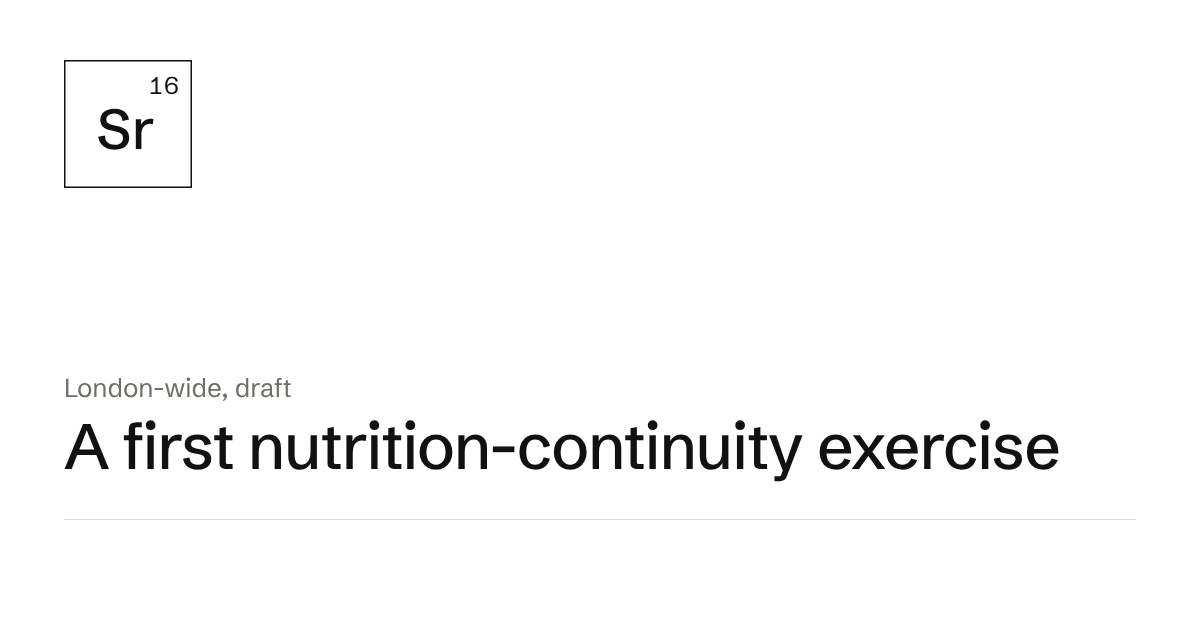
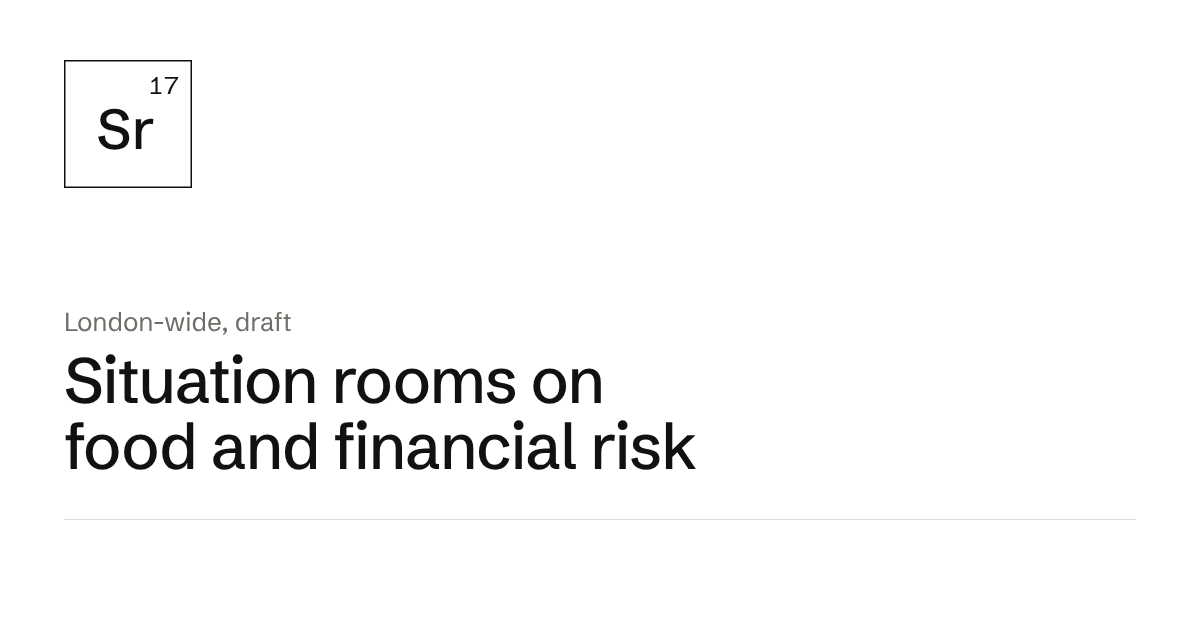
Rework the nutrition-continuity draft after the partners' conversation
Reframe around why finance is the entry point, define the first room's
starting point and destination, add the institutional shortlist with the
challenge to seat people who hold the balance sheet, and set out the
steering board, coordinators and operational lead. Named contacts stay off
the public page.

Claude-Session: https://claude.ai/code/session_014WTqevqxk3icJvFawm6Zpe

Changed region(s): [[0.0308, 0.4825, 0.8942, 0.754], [0.1233, 0.1206, 0.1542, 0.1508]]

diff --git a/nutrition-continuity-exercise.html b/nutrition-continuity-exercise.html
@@ -4,7 +4,7 @@
 <meta charset="UTF-8">
 <meta name="viewport" content="width=device-width, initial-scale=1.0">
 <meta name="robots" content="noindex, nofollow">
-<title>A first nutrition-continuity exercise (draft) — Food as Infrastructure</title>
+<title>Situation rooms on food and financial risk (draft) — Food as Infrastructure</title>
 <style>
   /* A document on paper. Tokens come from assets/fai/fai.css (loaded after this block). */
   *{box-sizing:border-box;}
@@ -71,24 +71,24 @@
   }
 </style>
 <!-- fai:head -->
-<meta name="description" content="A discussion draft: a facilitated exercise in early 2027 tracing how a food shock spreads into inflation, insurance losses and public finances.">
+<meta name="description" content="A discussion draft: small, director-level situation rooms tracing how a near-term food shock lands on financial balance sheets.">
 <link rel="canonical" href="https://food.darkmatterlabs.org/nutrition-continuity-exercise.html">
 <meta name="theme-color" content="#111112">
 <meta property="og:type" content="article">
 <meta property="og:site_name" content="Food as Infrastructure, Dark Matter Labs">
 <meta property="og:locale" content="en_GB">
 <meta property="og:url" content="https://food.darkmatterlabs.org/nutrition-continuity-exercise.html">
-<meta property="og:title" content="A first nutrition-continuity exercise">
-<meta property="og:description" content="A discussion draft: a facilitated exercise in early 2027 tracing how a food shock spreads into inflation, insurance losses and public finances.">
+<meta property="og:title" content="Situation rooms on food and financial risk">
+<meta property="og:description" content="A discussion draft: small, director-level situation rooms tracing how a near-term food shock lands on financial balance sheets.">
 <meta property="og:image" content="https://food.darkmatterlabs.org/assets/fai/social/nutrition-continuity-exercise.png">
 <meta property="og:image:width" content="1200">
 <meta property="og:image:height" content="630">
-<meta property="og:image:alt" content="A first nutrition-continuity exercise. Food as Infrastructure, Dark Matter Labs.">
+<meta property="og:image:alt" content="Situation rooms on food and financial risk. Food as Infrastructure, Dark Matter Labs.">
 <meta name="twitter:card" content="summary_large_image">
-<meta name="twitter:title" content="A first nutrition-continuity exercise">
-<meta name="twitter:description" content="A discussion draft: a facilitated exercise in early 2027 tracing how a food shock spreads into inflation, insurance losses and public finances.">
+<meta name="twitter:title" content="Situation rooms on food and financial risk">
+<meta name="twitter:description" content="A discussion draft: small, director-level situation rooms tracing how a near-term food shock lands on financial balance sheets.">
 <meta name="twitter:image" content="https://food.darkmatterlabs.org/assets/fai/social/nutrition-continuity-exercise.png">
-<meta name="twitter:image:alt" content="A first nutrition-continuity exercise. Food as Infrastructure, Dark Matter Labs.">
+<meta name="twitter:image:alt" content="Situation rooms on food and financial risk. Food as Infrastructure, Dark Matter Labs.">
 <link rel="icon" href="assets/fai/favicon.svg" type="image/svg+xml">
 <link rel="preconnect" href="https://fonts.googleapis.com">
 <link rel="preconnect" href="https://fonts.gstatic.com" crossorigin>
@@ -103,7 +103,7 @@
     <a class="fai-bar__dm" href="https://darkmatterlabs.org/"><img class="fai-bar__lockup" src="assets/brand/dm-logo-v1-white.svg" alt="Dark Matter Labs" width="102" height="20"><img class="fai-bar__stamp" src="assets/brand/dm-stamp-white.svg" alt="Dark Matter Labs" width="20" height="20"></a>
     <span class="fai-bar__sep" aria-hidden="true"></span>
     <a class="fai-bar__mission" href="index.html">Food as Infrastructure</a>
-    <span class="fai-bar__here"><span class="fai-el fai-el--draft" aria-hidden="true"><b>Sr</b><i>16</i></span><span>Nutrition Continuity Exercise</span></span>
+    <span class="fai-bar__here"><span class="fai-el fai-el--draft" aria-hidden="true"><b>Sr</b><i>17</i></span><span>Situation Rooms</span></span>
     <a class="fai-bar__xco" href="https://optionality.darkmatterlabs.org/" target="_blank" rel="noopener" title="Dark Matter Labs' Expanding Civilizational Optionality portfolio">xCO portfolio<span aria-hidden="true"> ↗</span></a>
     <div class="fai-bar__links" role="navigation" aria-label="Site"><a href="index.html">Portfolio</a><a href="library.html">Library</a></div>
   </div>
@@ -113,140 +113,157 @@
 <div class="wrap">
 
 <div class="status" role="note">
-  <b>Draft for discussion.</b>
-  Shared by direct link only, with Indy, Sandrine, Kirsten and the wider team. Figures for cost and time are indicative ranges, not supplier quotes.
+  <b>Second draft for discussion.</b>
+  Shared by direct link with the Systems Transformation Hub partners and Dark Matter Labs. Cost and time figures are indicative ranges, not quotes. Named contacts are kept in a separate list between the partners, not on this page.
 </div>
 
 <header class="doc">
-  <p class="kicker">Discussion document, nutrition continuity and financial stability</p>
-  <h1>A first exercise on how a food shock becomes a financial one</h1>
-  <p class="lede">We propose to run a facilitated exercise, in the first quarter of 2027, that puts financial institutions and food-system actors in one room with a single disruption scenario. They trace how it spreads into prices, insurance losses and public finances, find where today’s responses fall short, and leave with actions they own.</p>
-  <p class="meta">Drafted by Milan and Adam, 7 October 2026. For a funding decision at the Collaborative’s Berlin meeting in early December.</p>
+  <p class="kicker">Discussion document, systemic risk and financial stability</p>
+  <h1>Situation rooms on how a food shock lands on a balance sheet</h1>
+  <p class="lede">Senior people in finance and policy already accept that climate and nature risk is systemic. That knowledge has not yet changed where capital goes. We propose a short series of small, director-level situation rooms, starting in early 2027. Each takes one near-term food-system disruption and traces it to the exposures the people in the room are responsible for.</p>
+  <p class="meta">Second draft by Milan and Adam, 15 October 2026, updated after our latest conversation.</p>
 </header>
 
 <div class="ask">
-  <p><b>What we are asking for.</b> Agreement on the scenario and format below, introductions into the financial sector, and a funding proposal for Berlin: either a six-month pilot or seed funding for a small delivery capability. Either should pay for a first exercise and a second, improved one.</p>
+  <p><b>What we are asking the partners for.</b> A thumbs up on the structure, framing and first-room design below. Names to add to the shortlist, especially people who hold a balance sheet rather than a sustainability brief. And a nominee for the operational lead, if you have one.</p>
 </div>
 
-<section class="topic" id="topic">
-  <h2>Topic and use case</h2>
-  <p>When food, water, energy and logistics come under pressure together, the question is whether people can keep eating well. If they can’t, the pressure doesn’t stay in the food system. It moves into sticky inflation that a central bank can’t treat, into claims and withdrawn cover for insurers, into weaker household and corporate balance sheets, and finally into public finances. Our <a href="nutrition-cascade-model.html">Nutrition Cascade</a> maps these pathways. It is qualitative, with illustrative weights and timings, and is a starting point for the exercise, not a forecast.</p>
+<section class="topic" id="why-finance">
+  <h2>Why the financial system is the entry point</h2>
+  <p>Food is where climate, water, energy and trade risk turns concrete fastest. A thin harvest or a blocked chokepoint shows up within months as food inflation that interest rates can’t fix, as claims and withdrawn cover for insurers, as stressed agricultural loan books, as repricing in portfolios exposed to food and commodities, and as calls on public money. These are not 2050 scenarios. The Systems Transformation Hub’s risk outlook for September 2026 to March 2027 describes disruptions that could arrive inside one reporting cycle.</p>
+  <p>Finance is the right way in because the losses land there, and because the people who hold those balance sheets can move capital in ways no food-system actor can on their own.</p>
+  <div class="table-wrap">
+  <table>
+    <thead><tr><th scope="col">Who</th><th scope="col">Where a food shock lands</th><th scope="col">What they can change</th></tr></thead>
+    <tbody>
+      <tr><th scope="row">Central banks and supervisors</th><td>Food inflation that rate rises don’t treat. Concentrated exposure in the banks and insurers they supervise.</td><td>Stress-test design, supervisory expectations, how they read food inflation</td></tr>
+      <tr><th scope="row">Public and development banks</th><td>Agricultural and infrastructure loan books, guarantees</td><td>Lending criteria, blended-finance terms, what they fund next</td></tr>
+      <tr><th scope="row">Insurers and reinsurers</th><td>Crop, cargo, business-interruption and supply-chain claims</td><td>Underwriting appetite, pricing, parametric cover</td></tr>
+      <tr><th scope="row">Banks lending to farming and food</th><td>Credit quality of farms, processors and food businesses</td><td>Credit terms, transition finance</td></tr>
+      <tr><th scope="row">Asset owners and managers</th><td>Food, commodity and consumer holdings. Bonds of import-dependent states.</td><td>Allocation, stewardship and engagement asks</td></tr>
+      <tr><th scope="row">EU policymakers</th><td>The fiscal cost of emergency support. Food security and preparedness.</td><td>Prudential and disclosure rules, preparedness funding</td></tr>
+    </tbody>
+  </table>
+  </div>
+  <p class="caption">Our <a href="nutrition-cascade-model.html">Nutrition Cascade</a> maps these pathways. It is qualitative, with illustrative weights and timings, and is a starting point for the scenario rather than a forecast.</p>
+</section>
 
-  <h3>A candidate shock sequence</h3>
-  <p>The sequence is still to be chosen. As a starting point, we suggest one drawn from the near-term outlook for September 2026 to March 2027 and three cascades already in the model:</p>
+<section class="topic" id="first-room">
+  <h2>The first room: where it starts and where it should end</h2>
+  <p><b>Starting point.</b> Participants already know the risk is systemic. What they lack is a concrete line from a near-term shock to their own book, and the words to make that case to their boards, supervisors and investors.</p>
+  <p><b>Destination.</b> Each participant leaves with:</p>
+  <ul>
+    <li>one decision within their own remit that they will test in the next six months, such as a stress-test assumption, an underwriting rule, a lending criterion or a stewardship ask</li>
+    <li>a short, plain account they can use with colleagues, regulators and investors of why not shifting capital lands losses on their own balance sheet</li>
+    <li>named follow-ups with others in the room.</li>
+  </ul>
+
+  <h3>No one outside the room holds the action</h3>
+  <p>Rooms like this often fail when participants can point to an absent actor as the one with real power: “that’s for the ECB”, “the regulator would have to move first”. We design against that in two ways. We put the people with the remit in the room, and when the conversation drifts to someone absent, the facilitator brings it back to what the people present can do themselves.</p>
+
+  <h3>A candidate scenario</h3>
+  <p>Still to be chosen with the partners. As a starting point, one drawn from the near-term outlook and three cascades already in our model:</p>
   <ol>
     <li>A winter energy squeeze, with a chokepoint such as the Strait of Hormuz repricing LNG, fertiliser and freight insurance.</li>
     <li>Farmers cut nitrogen use ahead of spring planting, while a strong El Niño stresses several breadbaskets in the same season.</li>
-    <li>Import-dependent food prices rise months later, households trade protein for cheap calories, and food inflation stays high after energy prices ease.</li>
+    <li>Import-dependent food prices rise months later and food inflation stays high after energy prices ease.</li>
   </ol>
 
-  <h3>Decisions participants would make</h3>
+  <h3>How the room is designed</h3>
   <ul>
-    <li>A central bank deciding whether to look through food inflation or tighten, knowing tightening falls hardest on the households already cutting protein.</li>
-    <li>Insurers and reinsurers deciding whether to reprice, exclude or keep covering crop, cargo and supply-chain risk.</li>
-    <li>Governments choosing between price support, reserve releases, export controls and protecting public food provision such as school meals.</li>
-    <li>Large food buyers, including public procurers, deciding whether to hold prices through forward contracts.</li>
+    <li><b>Small and senior.</b> Eight to ten people at director level with executive power. How senior is a design choice: the top, one level below or two, depending on who holds the remit to act.</li>
+    <li><b>A host that lends weight.</b> Ideally the European Central Bank or the European Investment Bank, at their offices. Neither has been asked yet.</li>
+    <li><b>A conversation with everyone first.</b> A one-to-one interview with every participant beforehand, to understand their exposure, what they could change and how they are likely to react. The design of the day builds on what we hear.</li>
+    <li><b>Rehearsed.</b> The team runs the session in full beforehand, playing the participants.</li>
+    <li><b>In finance language.</b> Plain terms, near-term horizons, no debates about terminology.</li>
+    <li><b>Fixed slots for senior voices.</b> Steering-board members and other senior contributors speak in set places on the agenda, each with a specific ask.</li>
+    <li><b>Repeatable.</b> Later rooms reuse the format with a different shock or a different part of the financial system.</li>
   </ul>
-
-  <h3>What the exercise should produce</h3>
-  <p>A shared map of the transmission pathways the group recognises, a list of gaps where no one currently acts, and a short set of interventions with a named institution willing to take each forward. The scenario, roles and debrief method should be reusable, so the second exercise costs less than the first.</p>
 </section>
 
-<section class="topic" id="audience">
-  <h2>Audience</h2>
-  <p>The financial sector is the way in. The capital team will test interest and ask what would make participation worth a senior person’s day. Candidates to test, none of them approached yet:</p>
-  <ul>
-    <li>Insurers and reinsurers with agricultural, cargo or food-supply exposure, and Lloyd’s market participants.</li>
-    <li>Central banks and financial-stability bodies, including the networks that already work on climate risk, such as the NGFS.</li>
-    <li>Development and public banks financing food and agricultural infrastructure.</li>
-  </ul>
-  <p>Around them sit the actors needed to make the scenario real: national food and agriculture ministries, a city or borough food partnership (the London work gives us Camden, Islington and Hackney), large retailers and public procurers, and logistics operators. Fifteen to forty people in total. Each should come with a decision they actually hold, not just a view.</p>
-</section>
-
-<section class="topic" id="format">
-  <h2>Format and delivery</h2>
-  <p>We suggest a structured tabletop: a facilitated half-day to two-day session that moves through the scenario at fixed decision points. It needs six to twelve weeks of preparation and is the cheapest serious format that still leaves participants with commitments. A short executive game could open it for senior financial participants. The other formats we reviewed are in the <a href="#annex">annex</a>.</p>
-  <p>We would not build this ourselves. We will scope it with an experienced partner and check what existing tools can be adapted: the Food Alert simulation partners, who are waiting on this document; ASRA’s STEER systemic-risk tool; and the Social Simulations portfolio, including the Mobility Transition exercise we worked on with them.</p>
-
-  <h3>Keeping it moving without a bottleneck</h3>
-  <p>A credible exercise needs senior input, but it shouldn’t wait on any one person’s diary. So we propose that decision rights sit with the people doing the work.</p>
+<section class="topic" id="participants">
+  <h2>Who should be in the room</h2>
+  <p>Our first shortlist leans on sustainability and climate leads. They are our natural allies and often the way in, but they rarely hold the balance sheet. For each institution we should aim for the person whose decisions would change under this scenario: a chief risk officer, a chief underwriting officer, a head of agricultural lending, a chief investment officer or a financial-stability director. The sustainability lead can open the door, and the seat should go to whoever holds the remit.</p>
   <div class="table-wrap">
   <table>
-    <thead><tr><th scope="col">Who</th><th scope="col">Decides</th><th scope="col">Contributes</th></tr></thead>
+    <thead><tr><th scope="col">Group</th><th scope="col">On the shortlist</th><th scope="col">Worth adding</th></tr></thead>
     <tbody>
-      <tr><th scope="row">Operational lead</th><td>Schedule, participants, budget within the agreed envelope, what goes in the room</td><td>Day-to-day running, follow-through after the exercise</td></tr>
-      <tr><th scope="row">Delivery partner</th><td>Exercise design, facilitation method</td><td>Scenario build, facilitation, debrief</td></tr>
-      <tr><th scope="row">Senior advisers (Indy, Sandrine, Kirsten)</th><td>Nothing on the critical path</td><td>Comments at three set points, introductions, a role in the room if they choose</td></tr>
-      <tr><th scope="row">The Collaborative</th><td>Funding, once, in Berlin</td><td>Review at the end of the pilot</td></tr>
-      <tr><th scope="row">Participants</th><td>The actions they take away</td><td>Their decisions, data and judgement</td></tr>
+      <tr><th scope="row">Central banking and public finance</th><td>European Central Bank, European Investment Bank</td><td>ECB financial stability and macroprudential policy, the European Systemic Risk Board, the NGFS, EIOPA financial stability</td></tr>
+      <tr><th scope="row">Banks, insurers and reinsurers</th><td>Rabobank, Howden, Munich Re, Swiss Re, a life-insurance chair reached through Climate-KIC</td><td>Allianz, AXA, Zurich, the Lloyd’s market. Heads of agricultural lending at large European banks.</td></tr>
+      <tr><th scope="row">Investors</th><td>IIGCC (two or three members), PGGM, APG</td><td>The Planetary Solvency initiative. Large asset owners with food and commodity exposure.</td></tr>
+      <tr><th scope="row">EU policymakers and regulators</th><td>DG FISMA, DG AGRI, DG CLIMA, DG ECHO (contact still to identify)</td><td>The team behind the EU’s food security crisis preparedness mechanism, and the Joint Research Centre</td></tr>
+      <tr><th scope="row">The physical market</th><td>None yet</td><td>The risk or treasury lead of a major agricultural commodity trader, so the room sees how a shock moves through physical supply</td></tr>
+      <tr><th scope="row">Connections</th><td>An independent financial-regulation adviser in the Club of Rome network, as a route to banks and investment managers</td><td>Partners’ own routes in</td></tr>
     </tbody>
   </table>
   </div>
-  <p class="caption">The three review points are the scenario draft, the participant list and the debrief. Each has a five-working-day window. If no comment comes, the work goes ahead.</p>
-  <p style="margin-top:16px">Introductions to financial institutions run through several people at once: the capital team, the delivery partner and the advisers. Drafts, the scenario and results live in one shared place, so anyone on the team can pick up the work. The plan should still run if any one of us is unavailable for a month.</p>
+  <p class="caption">This is an open invitation to every partner to add who is missing. The aim is a small room with real decision-making power, not broad representation.</p>
+</section>
 
-  <h3>Timetable</h3>
+<section class="topic" id="team">
+  <h2>Team and governance</h2>
+  <p>For now this is a collaboration between the Systems Transformation Hub, with all five of its partner organisations, and Dark Matter Labs. Whether others join is still to be decided. We want to draw the best people from across the partners, not split the work by organisation.</p>
   <div class="table-wrap">
   <table>
-    <thead><tr><th scope="col">When</th><th scope="col">What</th></tr></thead>
+    <thead><tr><th scope="col">Role</th><th scope="col">Who</th><th scope="col">What it does</th></tr></thead>
     <tbody>
-      <tr><td>October 2026</td><td>Circulate this draft. Capital team soundings. First calls with Food Alert partners and ASRA.</td></tr>
-      <tr><td>November 2026</td><td>Choose the shock sequence and decisions. Partner scope and quote. Institutional shortlist.</td></tr>
-      <tr><td>Early December 2026</td><td>Funding decision at the Collaborative’s Berlin meeting.</td></tr>
-      <tr><td>December 2026 to February 2027</td><td>Recruit an operational lead. Design the exercise and invite participants.</td></tr>
-      <tr><td>March 2027</td><td>First exercise, five months from now.</td></tr>
-      <tr><td>April to June 2027</td><td>Publish the debrief. Run a second, revised exercise, ideally co-funded by a participating institution.</td></tr>
+      <tr><th scope="row">Steering board</th><td>Senior leads from the five partner organisations, including Indy and Sandrine</td><td>Sets direction, opens doors to participants and funders, takes a slot in the room</td></tr>
+      <tr><th scope="row">Coordinators</th><td>Milan and Adam</td><td>In the background: keep the work on track and make the collaboration work</td></tr>
+      <tr><th scope="row">Operational lead</th><td>One or two people, to be confirmed. Three candidates across DML, xCO and an external contact. Metabolic is a likely source.</td><td>Runs the programme day to day: interviews, logistics, budget within the agreed envelope, follow-through. The most important appointment.</td></tr>
+      <tr><th scope="row">Expertise</th><td>Drawn from across the partners as each room needs it</td><td>Scenario, finance, policy and food-system knowledge</td></tr>
+      <tr><th scope="row">Specialist designers</th><td>Optional, for example the Food Alert team</td><td>Situation-room design and facilitation. A partner we could fundraise with, not part of the core team.</td></tr>
     </tbody>
   </table>
   </div>
+  <h3>Keeping it moving</h3>
+  <p>The steering board gives direction at three set points: the scenario and shortlist, the final design before the first room, and the debrief. Each review has a five-working-day window. Between those points, the operational lead decides within the agreed scope and budget, so the work never waits on one person’s diary.</p>
+  <p>Resourcing stays simple. Each partner receives a baseline, plus resource for the time its people actually spend.</p>
 </section>
 
 <section class="topic" id="funding">
-  <h2>Funding for Berlin</h2>
-  <p>The longer-term aim is for financial institutions to pay for this work. Until then, we see two ways to start. Both are our working assumptions and will change once a partner quotes.</p>
-  <div class="two">
-    <div class="card">
-      <h3>A six-month pilot</h3>
-      <p class="fig tnum">€115–200k</p>
-      <ul>
-        <li>Partner design and facilitation of the first exercise, €40–80k</li>
-        <li>A second exercise reusing the format, €20–40k</li>
-        <li>Operational lead for six months, €45–60k</li>
-        <li>Venue, travel and write-up, €10–20k</li>
-      </ul>
-      <p style="margin-top:12px">Clear scope and end date. Stops after six months unless someone else pays.</p>
-    </div>
-    <div class="card">
-      <h3>Seed for a delivery capability</h3>
-      <p class="fig tnum">€150–250k over 12 months</p>
-      <ul>
-        <li>Operational lead and a part-time analyst</li>
-        <li>A retainer with the delivery partner</li>
-        <li>The first exercise funded in full, the second co-funded by an institution</li>
-      </ul>
-      <p style="margin-top:12px">Keeps a team in place long enough to win paying clients. Asks more of the Collaborative up front.</p>
-    </div>
+  <h2>Funding</h2>
+  <p>We will raise money for the programme from public banks, private banks and philanthropies. Some institutions may prefer to contribute by hosting a room. The longer-term aim is for financial institutions to pay for rooms that serve them. The first ask goes to the Collaborative’s Berlin meeting in early December.</p>
+  <div class="card" style="margin-top:16px">
+    <h3>First phase: six months, two rooms</h3>
+    <p class="fig tnum">€150–250k</p>
+    <ul>
+      <li>Operational lead, one to one and a half people for six months, €60–90k</li>
+      <li>Pre-interviews, scenario and design for two rooms, €40–70k</li>
+      <li>Specialist situation-room design, if used, €20–40k</li>
+      <li>Partner baseline and time, venue, travel and write-up, €30–50k</li>
+    </ul>
+    <p style="margin-top:12px">Whether this is framed as a pilot or as seed funding for a standing capability is still open.</p>
   </div>
-  <p class="caption">Adviser time is assumed to be in kind. Participant time, often the largest real cost, is excluded from both.</p>
+  <p class="caption">Our working assumptions, to be replaced by real quotes. Participant time is excluded.</p>
 </section>
 
 <section class="topic" id="next">
-  <h2>What we need from the team now</h2>
-  <ul>
-    <li>Comments on this draft by 21 October, or we take it forward as it stands.</li>
-    <li>Two or three financial-sector introductions each, sent directly to the operational lead or to Milan until one is in post.</li>
-    <li>A view on the shock sequence: keep the candidate above, or start from the water or heat papers instead.</li>
-    <li>A preference between the pilot and the seed option, to shape the Berlin proposal.</li>
-  </ul>
+  <h2>Next steps</h2>
+  <div class="table-wrap">
+  <table>
+    <thead><tr><th scope="col">What</th><th scope="col">Who</th><th scope="col">When</th></tr></thead>
+    <tbody>
+      <tr><td>Meeting notes and draft structure</td><td>Milan</td><td>Done</td></tr>
+      <tr><td>Review the structure and write this second draft</td><td>Adam</td><td>Done</td></tr>
+      <tr><td>Senior names and Brussels contacts for the first room</td><td>Adam, with every partner adding</td><td>October</td></tr>
+      <tr><td>Check availability of three operational-lead candidates</td><td>Adam</td><td>October</td></tr>
+      <tr><td>Agree each partner organisation’s role</td><td>Milan and Adam with the steering board</td><td>November</td></tr>
+      <tr><td>Invitation wording that carries near-term urgency</td><td>Milan and Adam</td><td>November</td></tr>
+      <tr><td>Bring the structure and names to the Systems Transformation Hub for feedback</td><td>Milan</td><td>November</td></tr>
+      <tr><td>Funding ask at the Collaborative’s Berlin meeting</td><td>Milan and Adam</td><td>Early December</td></tr>
+      <tr><td>Pre-interviews, rehearsal and the first room</td><td>Operational lead</td><td>January to March 2027</td></tr>
+    </tbody>
+  </table>
+  </div>
 </section>
 
 <section class="topic" id="material">
   <h2>Material to build from</h2>
   <ul class="sources">
-    <li><b>Nutrition Continuity Situation Room.</b> The existing proposition linking nutritional continuity to central-bank and sovereign financial stability. It needs a short plain-language introduction to its method, purpose and ask, which this document starts to provide.</li>
+    <li><b>Nutrition Continuity Situation Room.</b> The existing proposition linking nutritional continuity to central-bank and sovereign financial stability.</li>
     <li><b><a href="https://dark-matter-labs.github.io/nutrition_continuity_xco_concept_paper/#nutrition-continuity" target="_blank" rel="noopener">Nutrition Continuity concept paper<span aria-hidden="true"> ↗</span></a>.</b> The framing paper that came before it.</li>
     <li><b><a href="index.html">Food as Infrastructure</a>.</b> Our London work connecting procurement, nutrition, regenerative production and finance, including the <a href="nutrition-cascade-model.html">Nutrition Cascade</a> and the <a href="nutrition-supply-map.html">Supply Map</a>.</li>
-    <li><b>The STH website.</b> The European context: the resilience overview and risk map, Europe’s exposure to cascading risks, the risk outlook for September 2026 to March 2027, the overarching policy argument, and papers on food, water, energy, materials, and health and cooling.</li>
+    <li><b>The Systems Transformation Hub website.</b> The European context: the resilience overview and risk map, Europe’s exposure to cascading risks, the risk outlook for September 2026 to March 2027, and papers on food, water, energy, materials, and health and cooling.</li>
     <li><b>Food Alert workshop.</b> The exercise Milan took part in, with working groups on crisis response, agriculture and production, and trade and finance.</li>
   </ul>
 </section>
